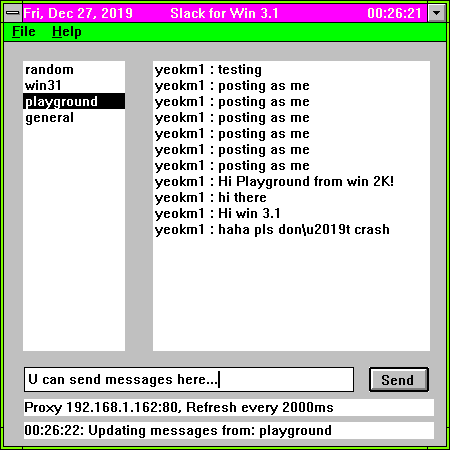
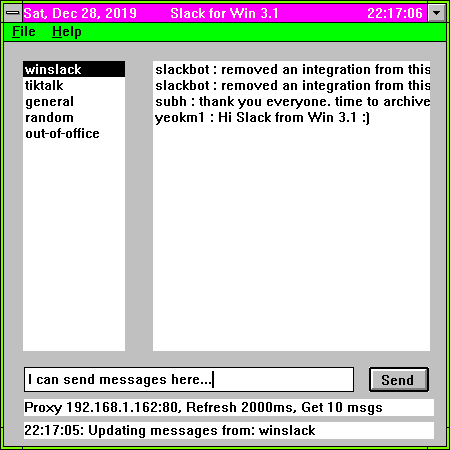
able to load custom user and channels and IDs manually via userchan.ids

diff --git a/app/MainWnd.c b/app/MainWnd.c
@@ -14,6 +14,8 @@
 
 
 #define CONFIG_FILE_TO_OPEN "w31slack.ini"
+#define IDS_FILE "userchan.ids"
+
 #define TOKEN_LENGTH_MAX 90
 #define IP_MAX 20
 
@@ -71,13 +73,12 @@ BOOL openAndProcessConfigFile(char * filename){
     return FALSE;
   }
 
-
   fgets(token, TOKEN_LENGTH_MAX, configFile);
 
   //Remove trailing newline
   token[strcspn(token, "\r\n")] = '\0';
   
-  fgets(buff, 6, configFile);
+  fgets(buff, 10, configFile);
   refreshRate = atoi(buff);
 
   fgets(ip, IP_MAX, configFile);
@@ -90,17 +91,82 @@ BOOL openAndProcessConfigFile(char * filename){
   fgets(buff, 6, configFile);
   maxMessagesToParse = atoi(buff);
 
-  fgets(buff, 20, configFile);
-  //Remove trailing newline
-  buff[strcspn(buff, "\r\n")] = '\0';
+  fclose(configFile);
+  
+  return TRUE;
 
-  if(strcmp("resolveusers", buff) != 0){
-    usersObtained = TRUE;
+}
+
+void updateChannelsUI(){
+
+  int i;
+  SendMessage(GetDlgItem(hwnd, CHANNELS_BOX_ID), LB_RESETCONTENT, 0, 0);
+
+  for (i = 0; i < channelsList.numChannels; i++){
+    SendMessage(GetDlgItem(hwnd, CHANNELS_BOX_ID), LB_ADDSTRING, 0, (LPARAM) ((LPSTR) channelsList.channels[i].channelName));
+  }
+}
+
+BOOL openAndProcessIDsFile(char * filename){
+  FILE * idsFile;
+  char line[50];
+
+  idsFile = fopen(filename, "r");
+
+  if(idsFile == NULL){
+    return FALSE;
   }
 
-  fclose(configFile);
+  while(fgets(line, 50, idsFile) != NULL){
+
+    char * firstParam;
+    char * secondParam;
+
+    // Replace newline with null chacter
+    line[strcspn(line, "\r\n")] = '\0';
+
+    firstParam = strtok(line, " ");
 
 
+    if(firstParam[0] == 'C'){
+      channelsList.channels = (Channel * ) realloc(channelsList.channels, (channelsList.numChannels + 1) * sizeof(Channel));
+
+      channelsList.channels[channelsList.numChannels].channelID = malloc(strlen(firstParam) + 1);
+      strcpy(channelsList.channels[channelsList.numChannels].channelID, firstParam);
+
+      OutputDebugString(channelsList.channels[channelsList.numChannels].channelID);
+      OutputDebugString(" ");
+
+      secondParam = strtok(NULL, " ");
+
+      channelsList.channels[channelsList.numChannels].channelName = malloc(strlen(secondParam) + 1);
+      strcpy(channelsList.channels[channelsList.numChannels].channelName, secondParam);
+
+      channelsList.numChannels++;
+
+    } else if (firstParam[0] == 'U'){
+
+      usersList.users = (User * ) realloc(usersList.users, (usersList.numUsers + 1) * sizeof(User));
+
+      usersList.users[usersList.numUsers].userID = malloc(strlen(firstParam) + 1);
+      strcpy(usersList.users[usersList.numUsers].userID, firstParam);
+
+      secondParam = strtok(NULL, " ");
+
+      usersList.users[usersList.numUsers].username = malloc(strlen(secondParam) + 1);
+      strcpy(usersList.users[usersList.numUsers].username, secondParam);
+
+      usersList.numUsers++;
+    }
+
+
+  }
+
+  fclose(idsFile);
+
+  usersObtained = TRUE;
+  channelsObtained = TRUE;
+  
   return TRUE;
 
 }
@@ -146,7 +212,6 @@ void sendSlackMessage(HWND hwnd){
 void updateChannelsList(){
 
   DWORD bytesReceived;
-  int i;
 
   showToStatus("Updating channels list", "");
 
@@ -155,18 +220,17 @@ void updateChannelsList(){
   if(bytesReceived > 0){
     jsnparse_freeChannelList(&channelsList);
     jsnparse_parseChannelList(lpGlobalMemory, bytesReceived, &channelsList);
-
-    SendMessage(GetDlgItem(hwnd, CHANNELS_BOX_ID), LB_RESETCONTENT, 0, 0);
-
-    for (i = 0; i < channelsList.numChannels; i++){
-      SendMessage(GetDlgItem(hwnd, CHANNELS_BOX_ID), LB_ADDSTRING, 0, (LPARAM) ((LPSTR) channelsList.channels[i].channelName));
-    }
       
+    updateChannelsUI();
+    
     channelsObtained = TRUE;
+    
   } else {
     showToStatus("Cannot retrieve channels list", "");
   }
 }
+
+
 
 void updateUsersList(){
 
@@ -419,6 +483,11 @@ HWND CreateMainWindow()
   }
 
   if(openAndProcessConfigFile(CONFIG_FILE_TO_OPEN)){
+
+    if(openAndProcessIDsFile(IDS_FILE)){
+      updateChannelsUI();
+    }
+
     if(refreshRate > 0){
       SetTimer(hwnd, REFRESH_TIMER_ID, refreshRate, NULL);
     }

diff --git a/README.md b/README.md
@@ -45,16 +45,22 @@ I wrote a custom unit test framework as I could not find a testing framework for
 # Running the app
 
 1. First [create an app](https://api.slack.com/apps/new) for your associated workspace.
-2. Add these permissions to your app `channels:history`, `channels:read`, `chat:write:user`, `groups:history`, `identify`, `im:history`,  `users:read`.
+2. Add these permissions to your app `channels:history`, `channels:read`, `chat:write:user`, `groups:history`, `identify`, `im:history`, `users:read`.
 3. Go to "OAuth & Permissions" section and get your OAuth Access Token. The URL should be https://api.slack.com/apps/XXXappIDXXX/oauth?
 4. Start up [http-to-https-proxy](https://github.com/yeokm1/http-to-https-proxy)
-4. Modify the file `w31slack.ini` configuration file to suit your needs. Fields in this order, token, server polling rate in milliseconds, IP address of proxy, port of proxy.
+4. Modify the file `w31slack.ini` configuration file to suit your needs. Fields in this order, token, server polling rate in milliseconds, IP address of proxy, port of proxy, number of messages to get to display.
 5. Start up the `w31slack.exe`. The binary and example config file is in the `release` folder.
 6. Profit!
 
-# Known issues
+# Known issue and solution to large numbers of users and channels
 
-1. App may fail if the number of users and channels in the workspace are huge.
+The app may fail if the number of users and channels in the workspace are huge. Usually as a consequence of too large a Json reply. To mitigate this, you can provide a file containing the id and channel/user combination for manual loading into app.
+
+1. Create the file `userchan.id` in the same directory as the binary.
+2. Fill in line by line in this format `channelID channelname`
+3. Users are also filled in the same file and format `userID username`
+
+Take a look at the sample file `sample-userchan.id`.
 
 # References
 1. [Building Win16 GUI Applications in C](http://www.transmissionzero.co.uk/computing/win16-apps-in-c/)
